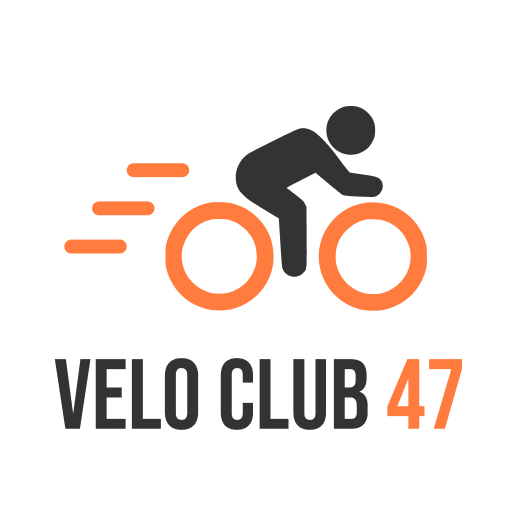
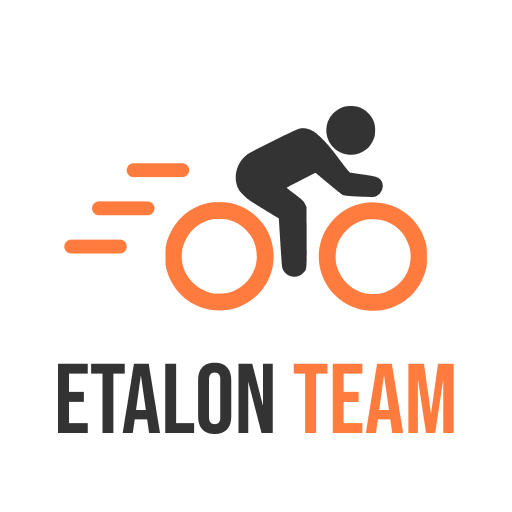
change name

Changed region(s): [[0.0938, 0.6875, 0.9062, 0.875]]

diff --git a/public/index.html b/public/index.html
@@ -24,7 +24,7 @@
       work correctly both with client-side routing and a non-root public URL.
       Learn how to configure a non-root public URL by running `npm run build`.
     -->
-    <title>VeloClub47</title>
+    <title>ETALON team</title>
   </head>
   <body>
     <noscript>You need to enable JavaScript to run this app.</noscript>
